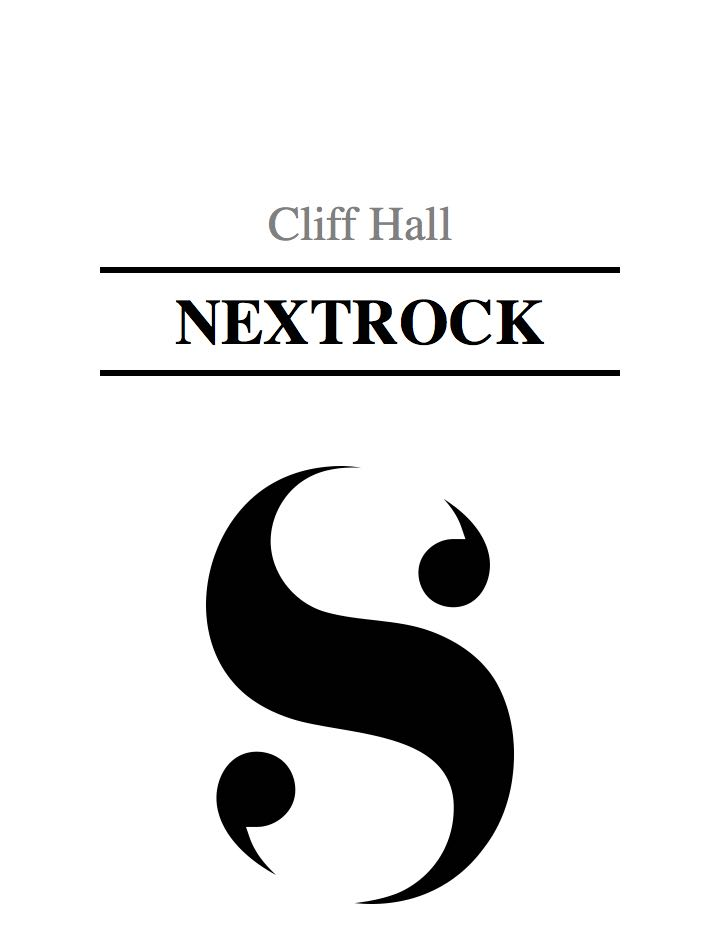
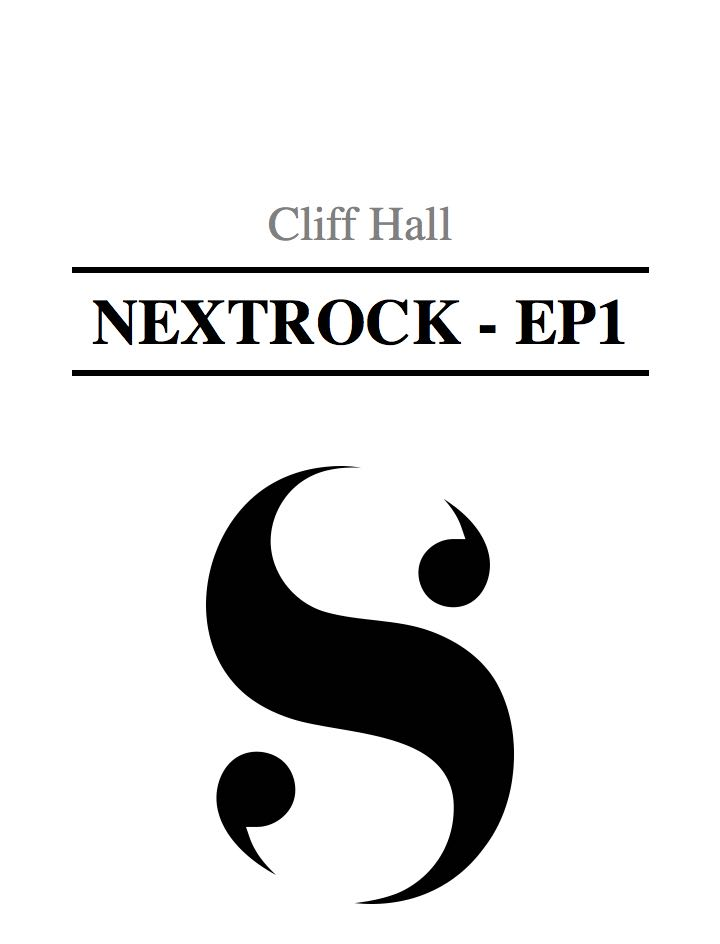
Added character sketches and scene branches to scrivener doc

Changed region(s): [[0.0917, 0.2765, 0.9167, 0.3994], [0.8556, 0.2765, 0.9167, 0.3072]]

diff --git a/NextRock - Ep1.scriv/QuickLook/Preview.html b/NextRock - Ep1.scriv/QuickLook/Preview.html
@@ -1,7 +1,7 @@
 <html>
 
 <head>
-<title>NextRock</title>
+<title>NextRock - Ep1</title>
 <meta http-equiv="Content-Type" content="text/html; charset=utf-8">
 
 <!-- NOTE: margin property = top-right-bottom-left -->
